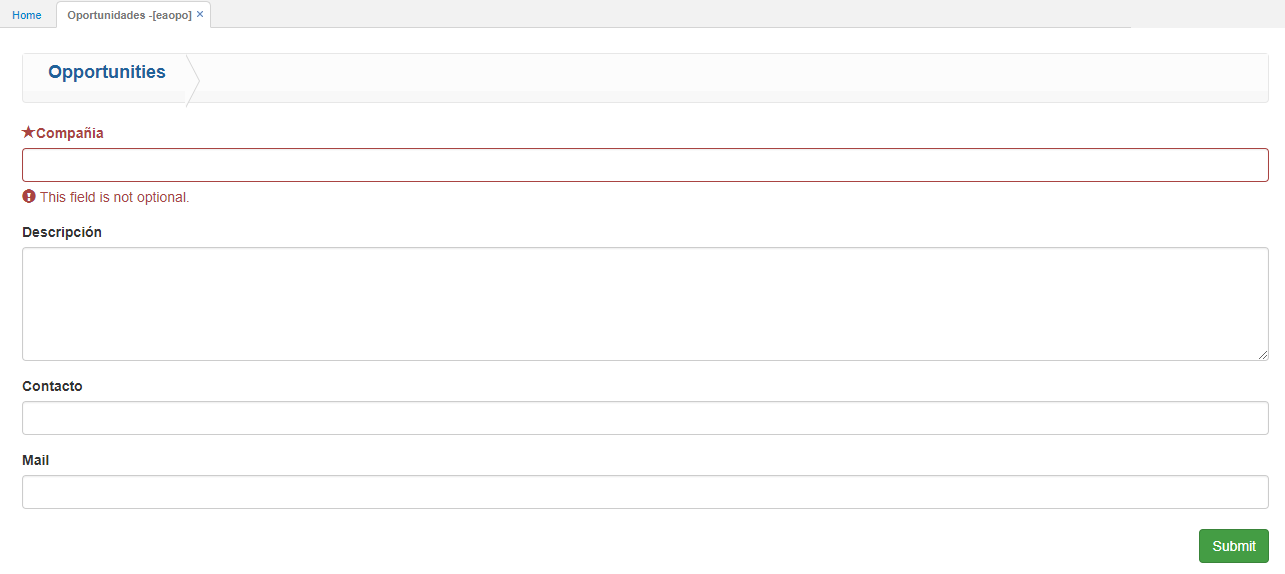
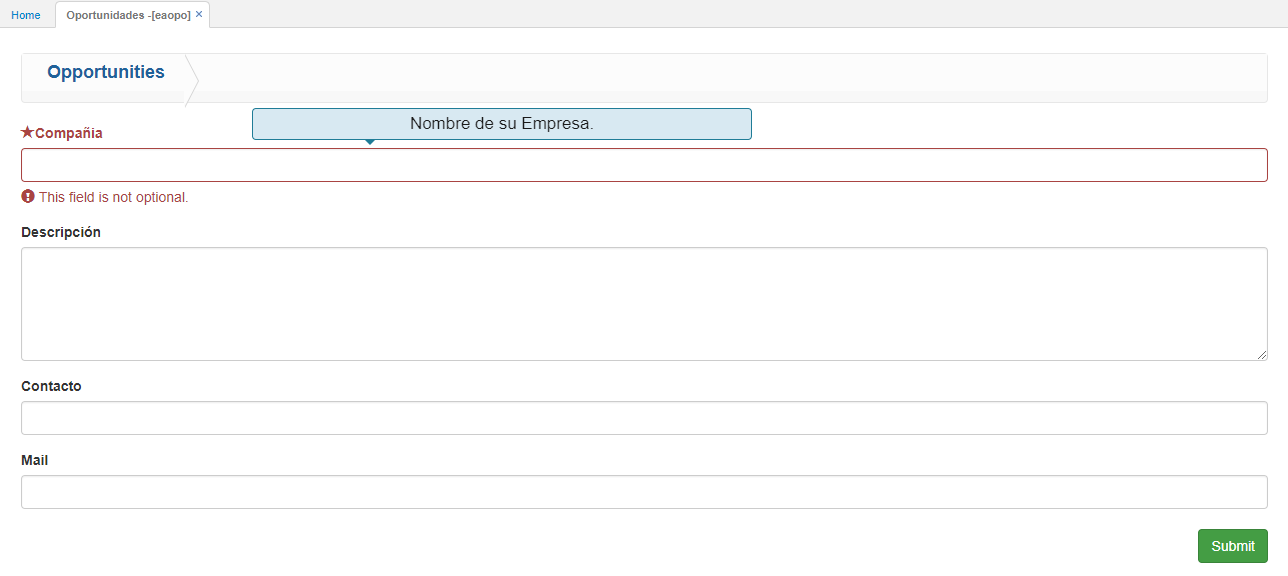
eaopo

diff --git a/Operacion/crm/venta/aoportunidad/eaopo.md b/Operacion/crm/venta/aoportunidad/eaopo.md
@@ -7,10 +7,11 @@ editable: si
 
 # EAOPO - Oportunidades
 
+La aplicaciópn EAOPO permite a los partners el registro de las oportunidades de una manera fácil y óptima por medio de una opción tipo formulario.  
 
-
-Cada campo indica qué se debe diligenciar en el.  
+Al poner el cursor sobre los campos, estos indicarán qué se debe diligenciar.  
 
 ![](eaopo.png)
 
 Ingresada la información, damos click en el botón _Submit_ para que sea enviada a OasisCom.  
+
